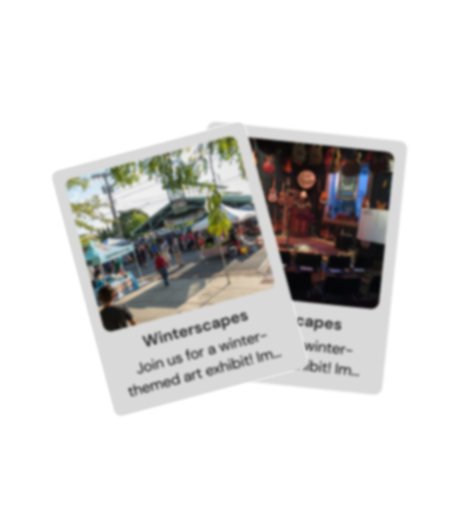
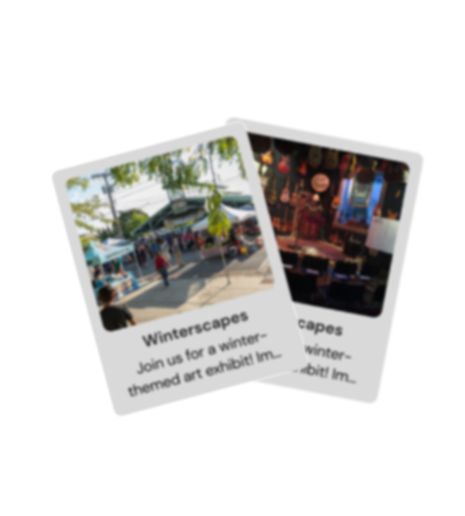
some styling

Changed region(s): [[0.4516, 0.2171, 0.9032, 0.7752]]

diff --git a/frontend/components/Home/FeaturedEventCard.tsx b/frontend/components/Home/FeaturedEventCard.tsx
@@ -2,7 +2,9 @@ import { router } from "expo-router";
 import React from "react";
 import { Image, StyleSheet, Text, View } from "react-native";
 import { TouchableOpacity } from "react-native-gesture-handler";
+import { Button } from "react-native-paper";
 import { getEventById } from "../../api/events";
+import COLORS from "../../colors";
 import scaleStyleSheet from "../../scaleStyles";
 
 type Event = Awaited<ReturnType<typeof getEventById>>;
@@ -15,16 +17,15 @@ type FeaturedEventCardProps = {
 
 export default function FeaturedEventCard({ event }: FeaturedEventCardProps) {
   return (
-    <View>
+    <View style={{ flex: 1, alignItems: "center" }}>
       <Text style={scaledStyles.header}>Don’t miss out on these new events!</Text>
-
       <TouchableOpacity
         onPress={() =>
           router.push({ pathname: "Event", params: { collectionId: "", eventId: event.id } })
         }
       >
-        <View style={styles.card}>
-          <Image source={FEATURED} style={styles.featuredImage} />
+        <View>
+          <Image source={FEATURED} style={styles.backgroundImage} />
           <View style={styles.absoluteImage}>
             <Image source={{ uri: event.images[0] }} style={styles.image} />
             <View style={styles.textContainer}>
@@ -36,6 +37,16 @@ export default function FeaturedEventCard({ event }: FeaturedEventCardProps) {
           </View>
         </View>
       </TouchableOpacity>
+      <Button
+        mode="contained"
+        buttonColor={COLORS.primary}
+        labelStyle={scaledStyles.button}
+        onPress={() =>
+          router.push({ pathname: "Event", params: { collectionId: "", eventId: event.id } })
+        }
+      >
+        Start swiping
+      </Button>
     </View>
   );
 }
@@ -45,51 +56,56 @@ const styles = StyleSheet.create({
     position: "absolute",
     zIndex: 1,
     top: 30,
-    left: 100
-  },
-  card: {
+    left: 100,
     width: 200,
-    height: 255,
     borderRadius: 8,
     shadowColor: "#000000",
     shadowOffset: { width: 0, height: 2 },
     shadowOpacity: 0.1,
     shadowRadius: 4,
-    marginBottom: 40
+    marginBottom: 20,
+    backgroundColor: "white",
+    padding: 12
   },
   textContainer: {
     backgroundColor: "white",
-    borderRadius: 8,
-    height: 100
+    borderRadius: 8
   },
   image: {
-    width: "100%",
     height: 150,
-    borderTopLeftRadius: 10,
-    borderTopRightRadius: 10
+    borderRadius: 8
   },
-  featuredImage: {
+  backgroundImage: {
     width: 400,
     height: 350
   },
   titleText: {
-    padding: 10,
+    paddingHorizontal: 10,
+    paddingTop: 10,
     fontSize: 15,
     fontWeight: "500",
-    fontFamily: "DMSansMedium"
+    fontFamily: "DMSansMedium",
+    textAlign: "center"
   },
   text: {
-    padding: 10,
+    paddingTop: 5,
+    paddingHorizontal: 10,
     fontSize: 15,
-    fontFamily: "DMSansRegular"
+    fontFamily: "DMSansRegular",
+    textAlign: "center"
   },
   header: {
     fontSize: 17,
     fontFamily: "DMSansMedium",
     fontWeight: "500",
     textAlign: "center",
-    marginLeft: 20,
+    marginLeft: 24,
     marginVertical: 10
+  },
+  button: {
+    fontFamily: "DMSansMedium",
+    fontSize: 15,
+    fontWeight: "700"
   }
 });
 

diff --git a/frontend/components/Home/HomeScreen.tsx b/frontend/components/Home/HomeScreen.tsx
@@ -72,10 +72,7 @@ const styles = StyleSheet.create({
     paddingBottom: 16
   },
   featuredContainer: {
-    marginBottom: 20,
-    marginRight: 20,
-    flex: 1,
-    marginLeft: -24
+    marginRight: 48
   },
 
   likedContainer: {
